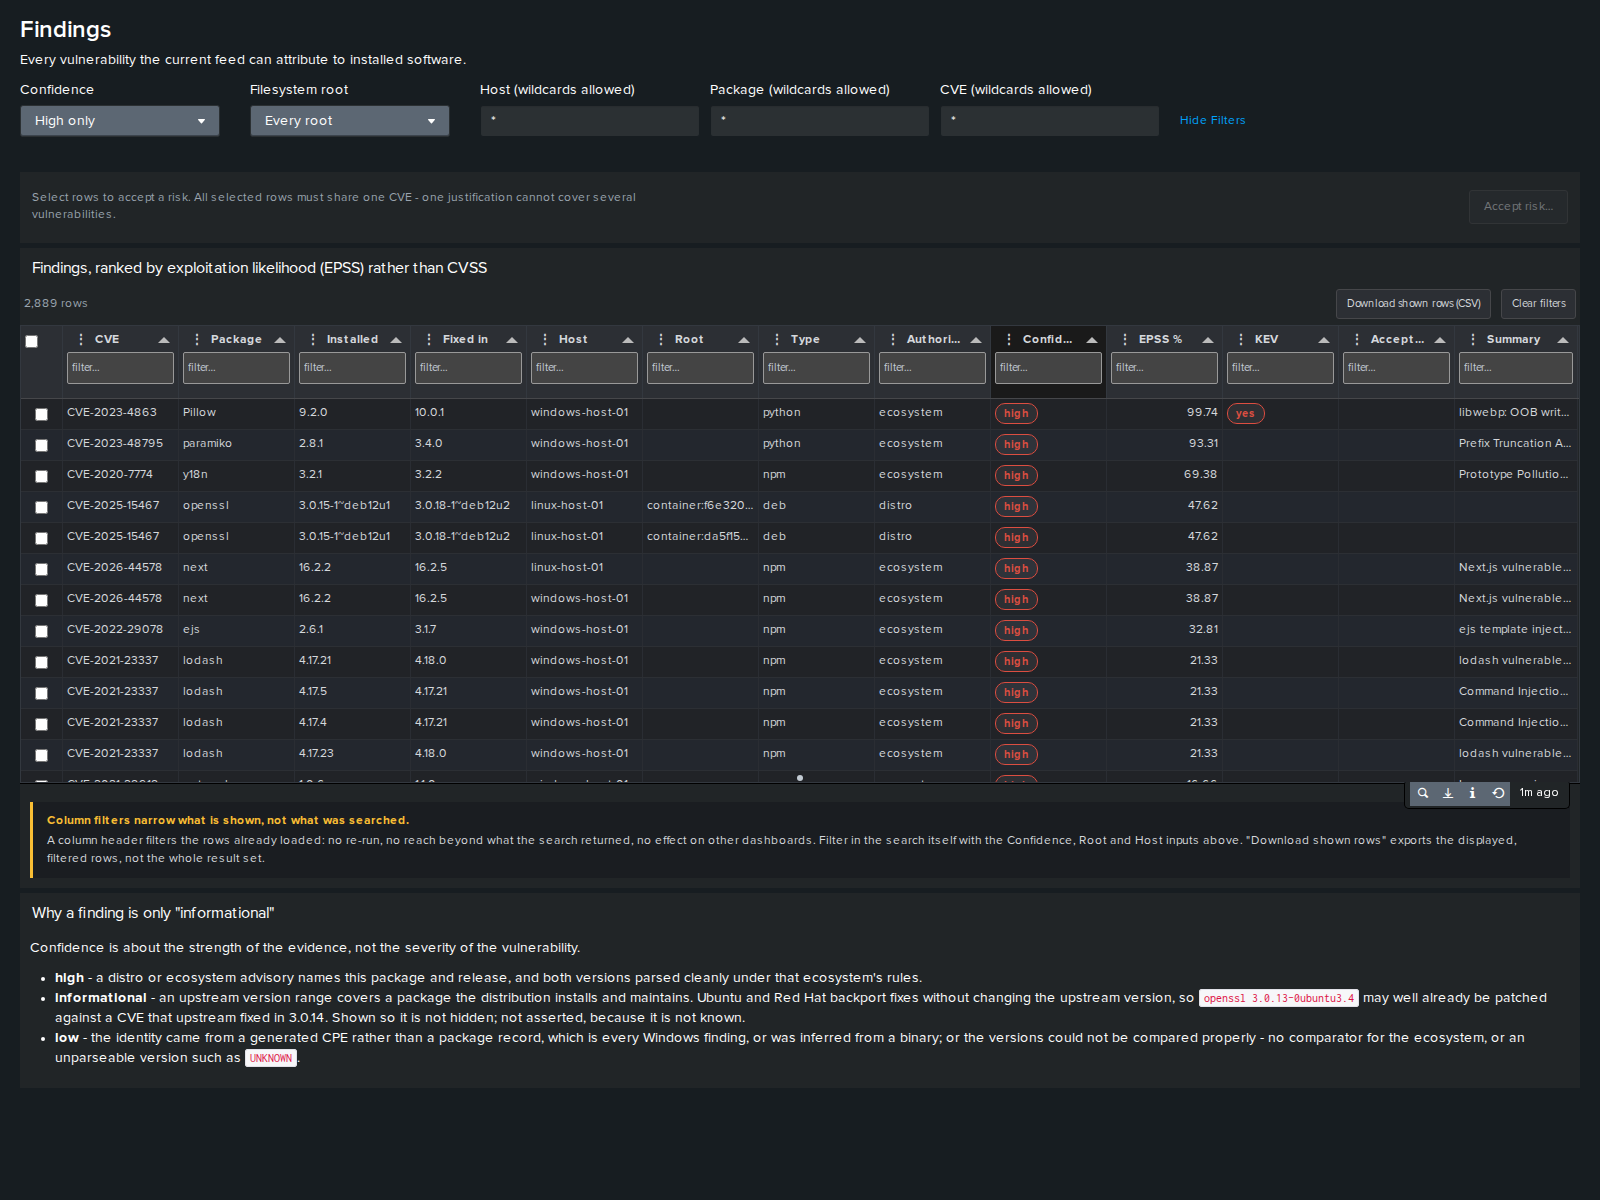
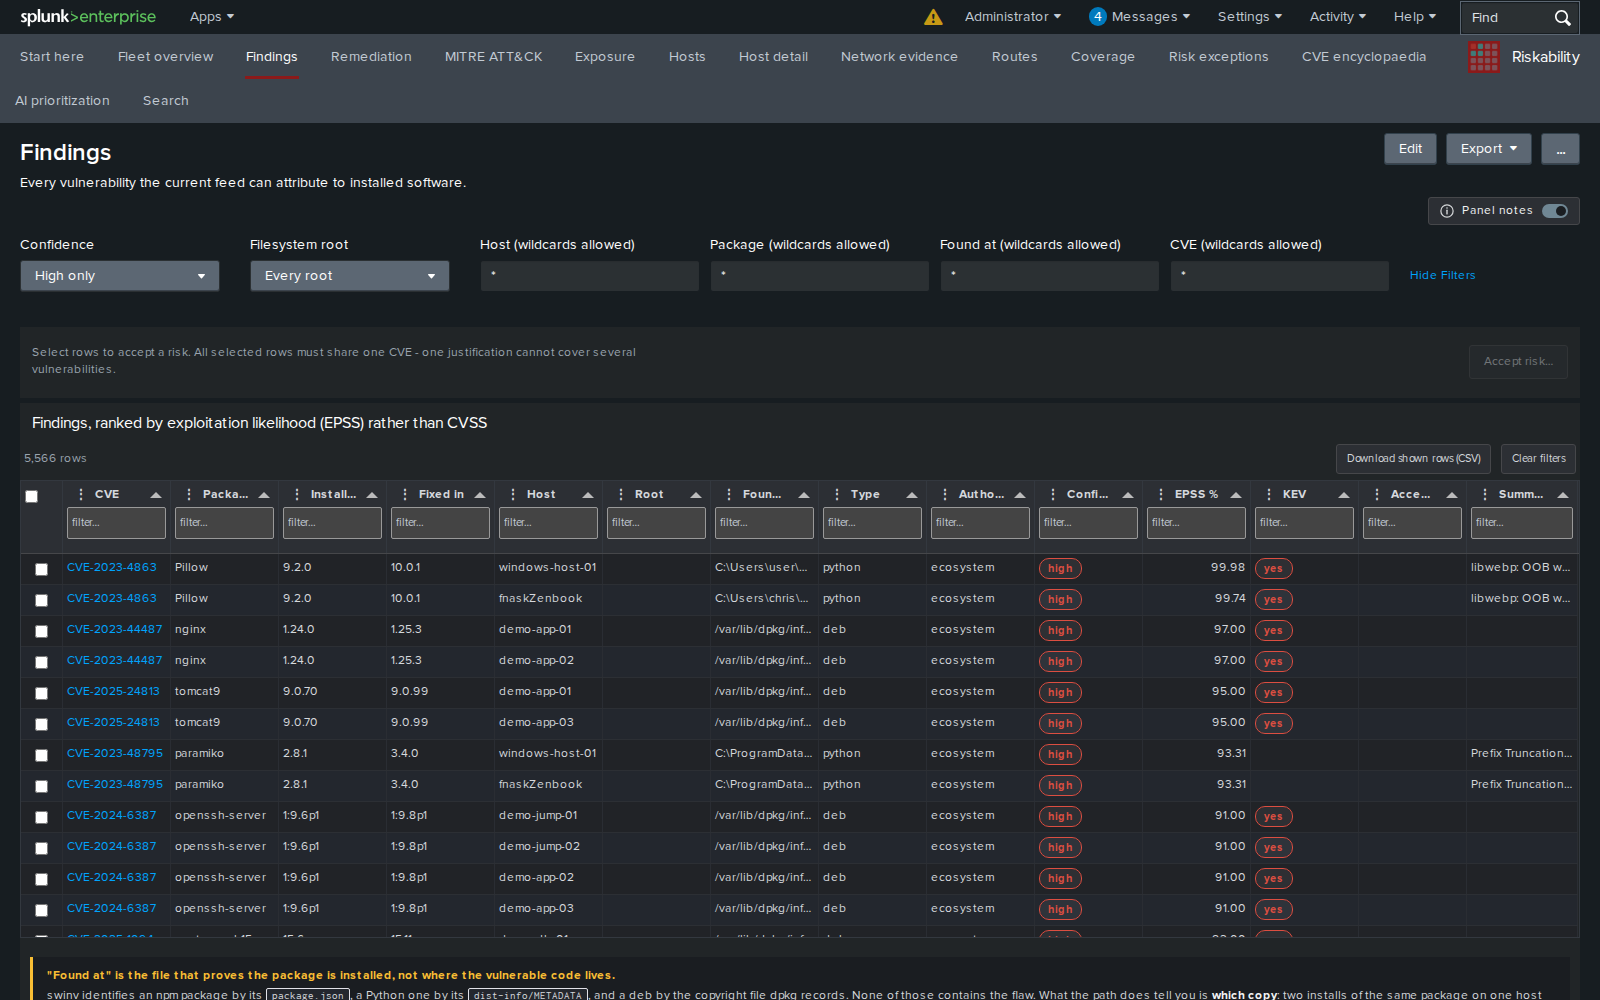
One capture per page, all of them fresh
Two files were the same view twice: an early Network evidence capture
beside the current one, and the escalation rules page as it stood in the
main app before it moved. Both are gone. Every main-app page is recaptured
from the live instance, so the gallery shows the grids, the notes and the
demo fleet this release ships with rather than captures from 23 August,
and Host detail, which had no capture at all, has one. Nineteen captures
that had a title and no caption now say what the page is for.

Claude-Session: https://claude.ai/code/session_015h4XPQmzofVzmoNycK2dQN

diff --git a/docs/index.html b/docs/index.html
@@ -60,7 +60,7 @@
       </figure>
       <figure class="card" id="netevidence-grades" data-name="netevidence-grades">
         <a href="screenshots/netevidence-grades.png" target="_blank" rel="noopener"><img loading="lazy" src="screenshots/netevidence-grades.png" alt="Network evidence, grades"></a>
-        <figcaption><b>Network evidence, grades</b> <span class="dim">The grade donut with the coverage grid beside it. No green anywhere, because none of these grades means safe; not observed is the app&#x27;s one negative claim and it is licensed only where a constant pressure entry point is declared.</span><span class="date">2026-09-02</span></figcaption>
+        <figcaption><b>Network evidence, grades</b> <span class="dim">The grade donut with the coverage grid beside it. No green anywhere, because none of these grades means safe; not observed is the app&#x27;s one negative claim and it is licensed only where a constant pressure entry point is declared.</span><span class="date">2026-09-03</span></figcaption>
       </figure>
       <figure class="card" id="routes" data-name="routes">
         <a href="screenshots/routes.png" target="_blank" rel="noopener"><img loading="lazy" src="screenshots/routes.png" alt="Routes"></a>
@@ -113,10 +113,6 @@
         <a href="screenshots/end-of-support-hosts.png" target="_blank" rel="noopener"><img loading="lazy" src="screenshots/end-of-support-hosts.png" alt="End of support, by host"></a>
         <figcaption><b>End of support, by host</b> <span class="dim">Where each end of support product is installed, so the timeline above can be turned into a list of machines.</span><span class="date">2026-08-29</span></figcaption>
       </figure>
-      <figure class="card" id="escalations" data-name="escalations">
-        <a href="screenshots/escalations.png" target="_blank" rel="noopener"><img loading="lazy" src="screenshots/escalations.png" alt="Escalation rules (earlier, main app)"></a>
-        <figcaption><b>Escalation rules (earlier, main app)</b> <span class="dim">The rules page as it first shipped in the main app, before it moved to the configuration app and gained switches.</span><span class="date">2026-09-02</span></figcaption>
-      </figure>
       <figure class="card" id="exposure" data-name="exposure">
         <a href="screenshots/exposure.png" target="_blank" rel="noopener"><img loading="lazy" src="screenshots/exposure.png" alt="Exposure"></a>
         <figcaption><b>Exposure</b> <span class="dim">The priority matrix, open findings by network reach against exploitation likelihood, the most exposed hosts, and the chain the network takes: edge, listening process, container, package, CVE.</span><span class="date">2026-08-23</span></figcaption>
@@ -137,6 +133,10 @@
         <a href="screenshots/fleet-overview.png" target="_blank" rel="noopener"><img loading="lazy" src="screenshots/fleet-overview.png" alt="Fleet overview"></a>
         <figcaption><b>Fleet overview</b> <span class="dim">How stale the feed is, how many hosts are reporting, and where the open findings are concentrated.</span><span class="date">2026-08-23</span></figcaption>
       </figure>
+      <figure class="card" id="host-detail" data-name="host-detail">
+        <a href="screenshots/host-detail.png" target="_blank" rel="noopener"><img loading="lazy" src="screenshots/host-detail.png" alt="Host detail"></a>
+        <figcaption><b>Host detail</b> <span class="dim">Everything known about one machine, as a dossier: identity and four clocks, what has been measured and what has not, what to do first, its findings, configuration surface, exposure, patch level and unsupported software.</span><span class="date">2026-09-03</span></figcaption>
+      </figure>
       <figure class="card" id="hosts" data-name="hosts">
         <a href="screenshots/hosts.png" target="_blank" rel="noopener"><img loading="lazy" src="screenshots/hosts.png" alt="Hosts"></a>
         <figcaption><b>Hosts</b> <span class="dim">Every host at a glance, split by filesystem root, so a package inside a container is never confused with the same package on the host.</span><span class="date">2026-08-23</span></figcaption>
@@ -152,10 +152,6 @@
       <figure class="card" id="mitre-attack" data-name="mitre-attack">
         <a href="screenshots/mitre-attack.png" target="_blank" rel="noopener"><img loading="lazy" src="screenshots/mitre-attack.png" alt="MITRE ATT&amp;CK"></a>
         <figcaption><b>MITRE ATT&amp;CK</b> <span class="dim">Which adversary techniques the open findings could enable, built from four kinds of evidence that carry different strengths of claim and are never blended into one number.</span><span class="date">2026-08-23</span></figcaption>
-      </figure>
-      <figure class="card" id="netevidence" data-name="netevidence">
-        <a href="screenshots/netevidence.png" target="_blank" rel="noopener"><img loading="lazy" src="screenshots/netevidence.png" alt="Netevidence"></a>
-        <figcaption><b>Netevidence</b><span class="date">2026-09-02</span></figcaption>
       </figure>
       <figure class="card" id="remediation" data-name="remediation">
         <a href="screenshots/remediation.png" target="_blank" rel="noopener"><img loading="lazy" src="screenshots/remediation.png" alt="Remediation"></a>

diff --git a/tools/build_gallery.py b/tools/build_gallery.py
@@ -33,6 +33,7 @@ CAPTIONS = {
  "mitigation-coverage":    ("Mitigation coverage", "MITRE mitigations ranked by how many of the fleet's reachable techniques each would address, split by reach, so the highest leverage control is first. A mitigation reduces the technique; the CVEs still need fixing."),
  "config-surface":         ("Configuration surface", "What each host is configured to run: cron, systemd timers and services, SUID and SGID binaries, each carrying the ATT&CK technique it is the surface for. The half of ATT&CK a CVE feed cannot reach, counted in mechanisms rather than CVEs."),
  "exposure":               ("Exposure", "The priority matrix, open findings by network reach against exploitation likelihood, the most exposed hosts, and the chain the network takes: edge, listening process, container, package, CVE."),
+ "host-detail":            ("Host detail", "Everything known about one machine, as a dossier: identity and four clocks, what has been measured and what has not, what to do first, its findings, configuration surface, exposure, patch level and unsupported software."),
  "hosts":                  ("Hosts", "Every host at a glance, split by filesystem root, so a package inside a container is never confused with the same package on the host."),
  "coverage":               ("Coverage", "The honest page. What the imported feed cannot assess and why, whether everything the collector found actually arrived, Windows patch level against Microsoft's own build data, and the support timeline."),
  "end-of-support":         ("End of support", "Software on the fleet that has run out of supported releases, placed on a timeline at the date support ends, with how much evidence there is that it runs. Who ships a copy decides whether it is really unsupported."),
@@ -41,7 +42,6 @@ CAPTIONS = {
  "cve-encyclopaedia":      ("CVE encyclopaedia", "What any vulnerability the feed carries actually is, and where it sits in this fleet. Entirely offline."),
  "feed-administration":    ("Feed administration (admin)", "Build, upload and import bundles, fetch sources directly on an instance that has a route out, and set index names. In the Riskability Configuration app, administrators only."),
  "feed-import-progress":   ("Feed import in progress (admin)", "An import runs on the server and does not need the page kept open. The active feed stays searchable throughout, so importing never blinds the fleet."),
- "escalations":            ("Escalation rules (earlier, main app)", "The rules page as it first shipped in the main app, before it moved to the configuration app and gained switches."),
 }
 # The section at the top. Edit when a batch of pages changes.
 RECENT_TITLE = "Changed on 2026-09-03"
